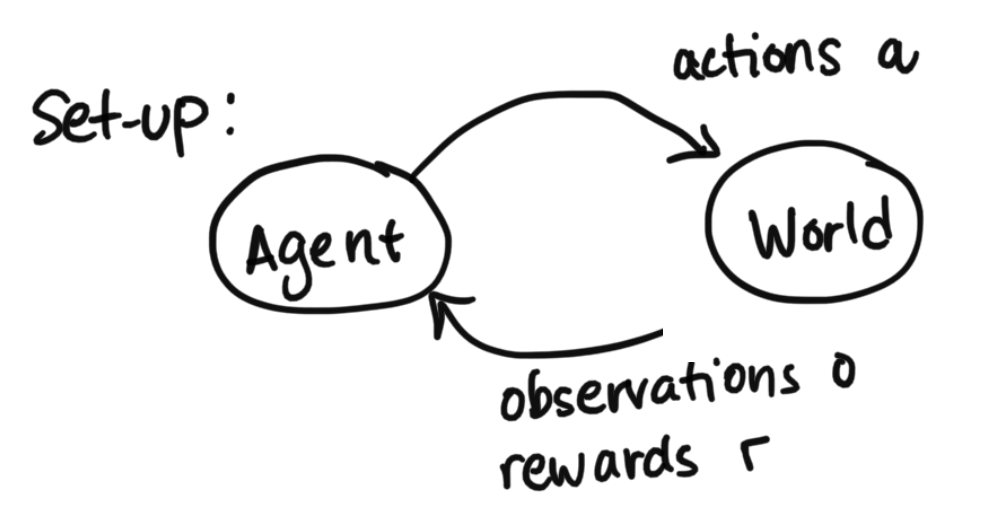
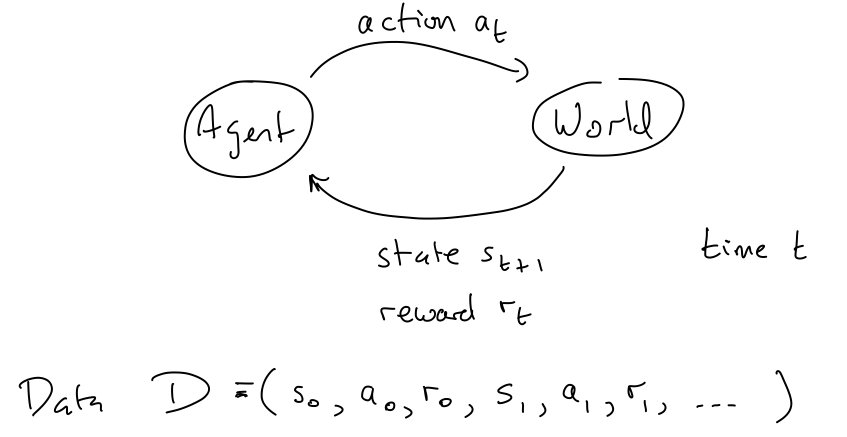
updated recap 20 for clarity

diff --git a/recap20.html b/recap20.html
@@ -53,10 +53,31 @@ weight: 0
 
       To explain the setup diagram above, the agent can send actions to the world, and the world will return observations that we call $o$ and rewards that we call $r$.<br><br>
 
-      $o$ represents observations<br><br>
+      $S = \{1, \dots, |S|\}$ represents the states<br><br>
+      $A = \{1, \dots, |A|\}$ represents the actions<br><br>
+      $P(s'|s, a)$ defines the transition model <br><br>
+      $\pi(a|s)$ is the probability of taking action $a$ given that we are currently in state $a$. This is also known as the policy. <br><br>
       $r$ represents rewards<br><br>
       $t$ represents the time stamp<br><br>
       $\gamma$ is our discount factor which is between [0, 1) (in the future, rewards are worth less by a factor of $\gamma$ per round of time)<br><br>
+
+      <h4>Definitions: </h4>
+      Markov Assumption: $P_t(s_{t+1}| s_1, s_2, \dots, s_t, a_1, a_2, \dots, a_t) = P_t(s_{t+1}| s_t, a_t)$ <br><br>
+      Stationarity assumption: $P_t(S_{t+1} | S_{t}, a_t) = P_t(S_{t+1} | S_{t}, a_t)$. Notice here that we have dropped the subscript $t$, and that the transition model is time invariant. In other words, we can move the time around, and as long as we have the same state $s$ and action $a$, the probability should remain the same. 
+
+      <h4>Types of problems:</h4>
+      The MDPs that we are trying to solve are dependent on the set of variables given by MDP(S, A, r, P), where the state and action spaces are discrete. This means that the transition and reward functions can be more easily computed. 
+      <ul>
+        <li>Planning: the input is an MDP and the output is the optimal policy. </li>
+        <li>Reinforcement learning: the input is the access to the world and the outputs are the actions (ie. the policy). This is equivalent to learning from feedback to optimize a policy. </li>
+      </ul>
+
+      <h4>Objective:</h4>
+      <ul>
+        <li>Infinite Horizon: $max_{\pi} E\left[\sum_{t=0}^\infty \gamma^t r_t \right\]$</li>
+        <li>Reinforcement learning: the input is the access to the world and the outputs are the actions (ie. the policy). This is equivalent to learning from feedback to optimize a policy. </li>
+      </ul>
+
 
       With the above information, we have:<br><br>
 
